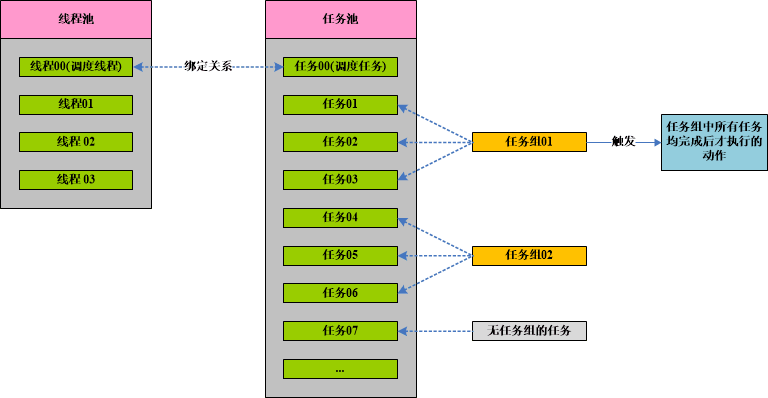
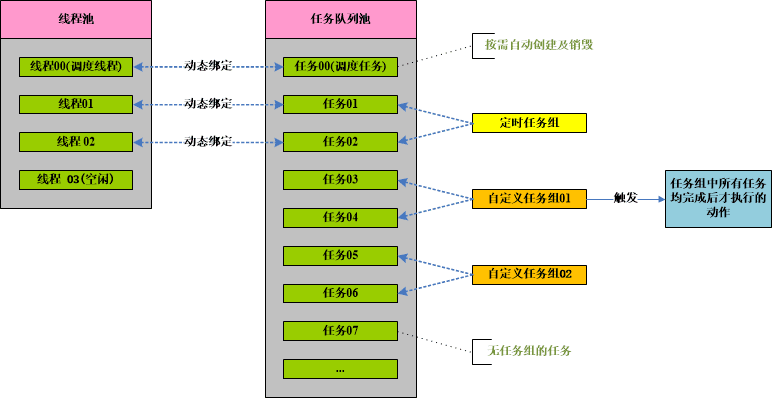
1.0.6 Signed-off-by: HY-ZhengWei <HY.ZhengWei@qq.com>

diff --git a/src/org/hy/common/thread/Jobs.java b/src/org/hy/common/thread/Jobs.java
@@ -36,9 +36,6 @@ public final class Jobs extends Job
      */
     private Counter<String>      jobMonitor;
     
-    /** 任务组 */
-    private TaskGroup            taskGroup;
-    
     /** 最小轮询间隔类型 */
     private int                  minIntervalType;
     
@@ -47,7 +44,6 @@ public final class Jobs extends Job
     public Jobs()
     {
         this.jobList    = new ArrayList<Job>();
-        this.taskGroup  = new TaskGroup(super.getTaskType());
         this.jobMonitor = new Counter<String>();
         this.setDesc("Jobs Total scheduling");
     }
@@ -62,7 +58,7 @@ public final class Jobs extends Job
         
         this.minIntervalType = this.jobList.get(0).getIntervalType();
         
-        this.taskGroup.startTask(this);
+        TaskPool.putTask(this);
     }
     
     
@@ -224,7 +220,7 @@ public final class Jobs extends Job
         i_Job.setMyJobs(this);
         if ( addMonitor(i_Job) )
         {
-            this.taskGroup.startTask(i_Job);
+            TaskPool.putTask(i_Job);
         }
     }
     

diff --git a/src/org/hy/common/thread/TaskGroup.java b/src/org/hy/common/thread/TaskGroup.java
@@ -134,13 +134,6 @@ public class TaskGroup
 	
 	
 	
-	public void startTask(Task<?> i_Task)
-	{
-	    TaskPool.putTask(i_Task);
-	}
-	
-	
-	
 	/**
 	 * 停止尚未绑定线程开始执行的任务。对于已绑定线程执行的任务不生效。
 	 * 
@@ -245,6 +238,23 @@ public class TaskGroup
 		i_Task.setTaskGroup(this);
 		this.taskList.add(i_Task);
 	}
+	
+	
+	
+	/**
+	 * 添加任务，并执行任务
+	 * 
+	 * @author      ZhengWei(HY)
+	 * @createDate  2017-02-22
+	 * @version     v1.0
+	 *
+	 * @param i_Task
+	 */
+	public void addTaskAndStart(Task<?> i_Task)
+    {
+	    this.addTask(i_Task);
+        TaskPool.putTask(i_Task);
+    }
 	
 	
 	
